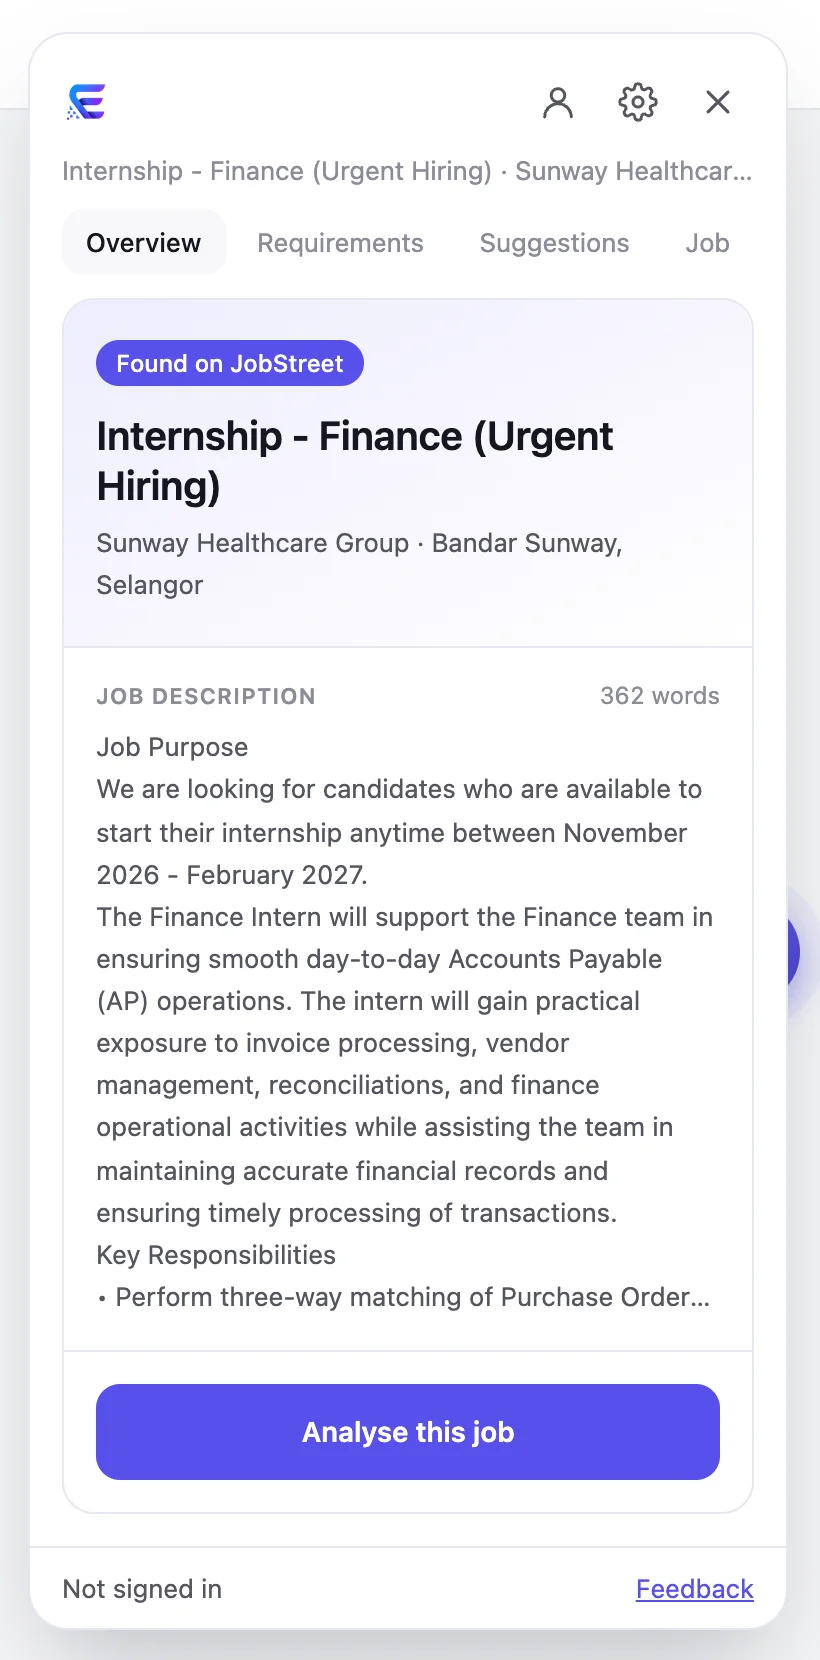
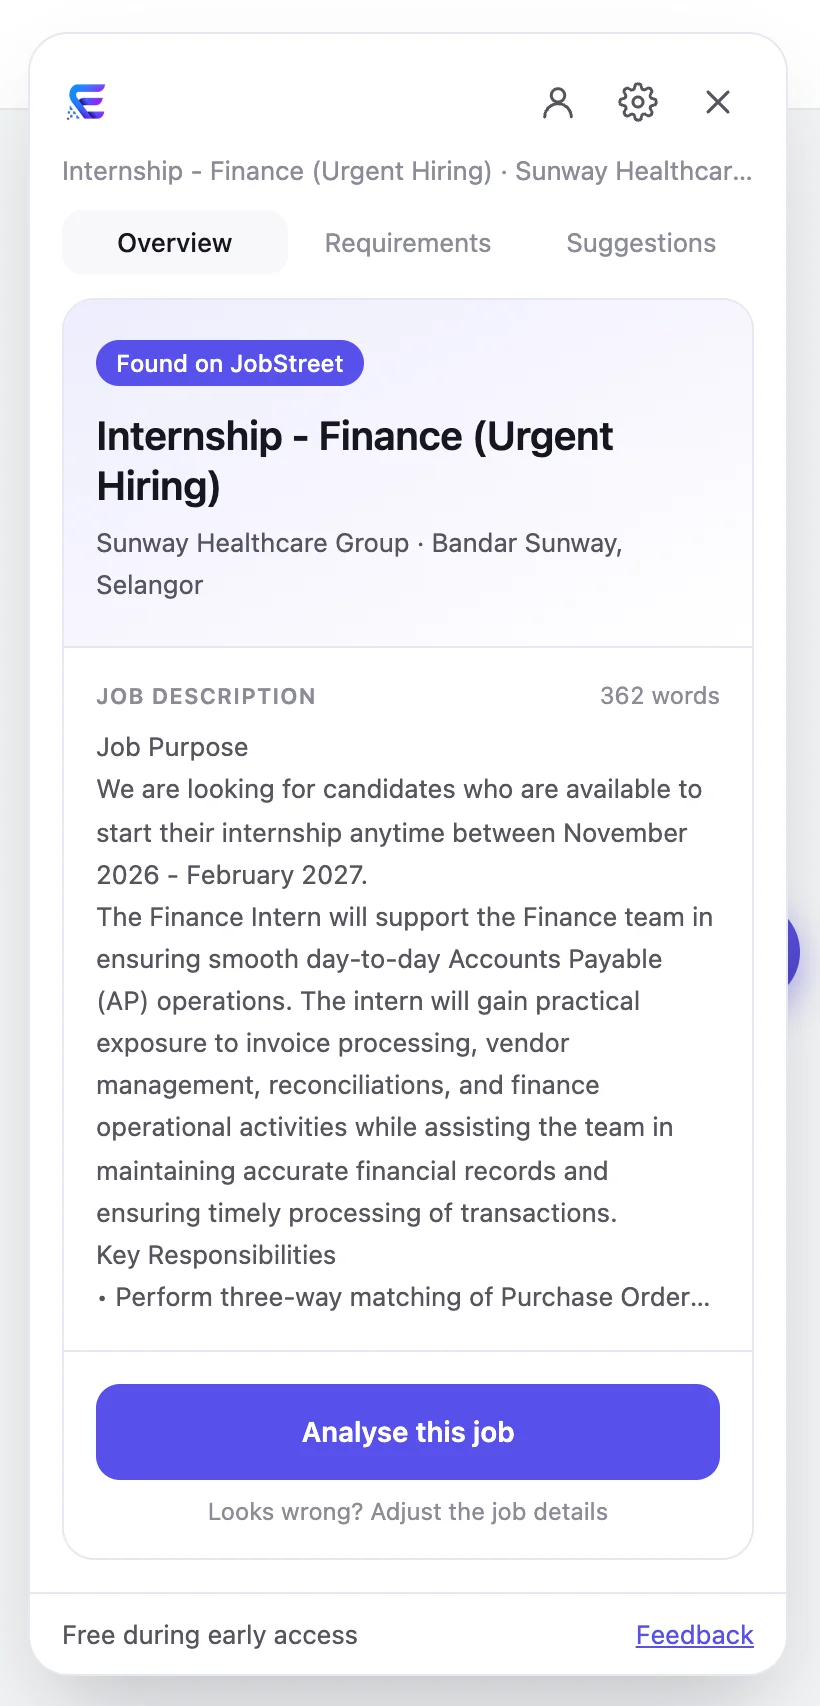
Elevra write-up: refresh extension screenshots for the new panel tabs

diff --git a/_projects/elevra.md b/_projects/elevra.md
@@ -72,7 +72,7 @@ Getting text out of a PDF reliably was its own little adventure. Lots of CV temp
 <h4>The browser extension</h4>
 Copy-pasting job descriptions gets old fast, so the extension brings Elevra onto the listing itself. It works on JobStreet, LinkedIn, Hiredly and Indeed. On a job page a small Elevra button shows up on the side, and clicking it opens a panel that has already read the title, company and full description off the page.
 
-<div class="figure-row figure-row--balanced" style="--ar-1: 0.494fr; --ar-2: 0.575fr;">
+<div class="figure-row figure-row--balanced" style="--ar-1: 0.481fr; --ar-2: 0.485fr;">
     <div>
         {% include figure.liquid loading="eager" path="assets/img/elevra3.webp" title="Elevra extension panel showing the job it read from the page" %}
     </div>
@@ -81,7 +81,7 @@ Copy-pasting job descriptions gets old fast, so the extension brings Elevra onto
     </div>
 </div>
 <div class="figure-caption">
-    The panel on a demo job page, before and after analysing. Same CV as above, run against a local dev build.
+    The panel on a demo job page, before and after analysing, with the same CV as above.
 </div>
 
 Some things that made the extension trickier than the website:
